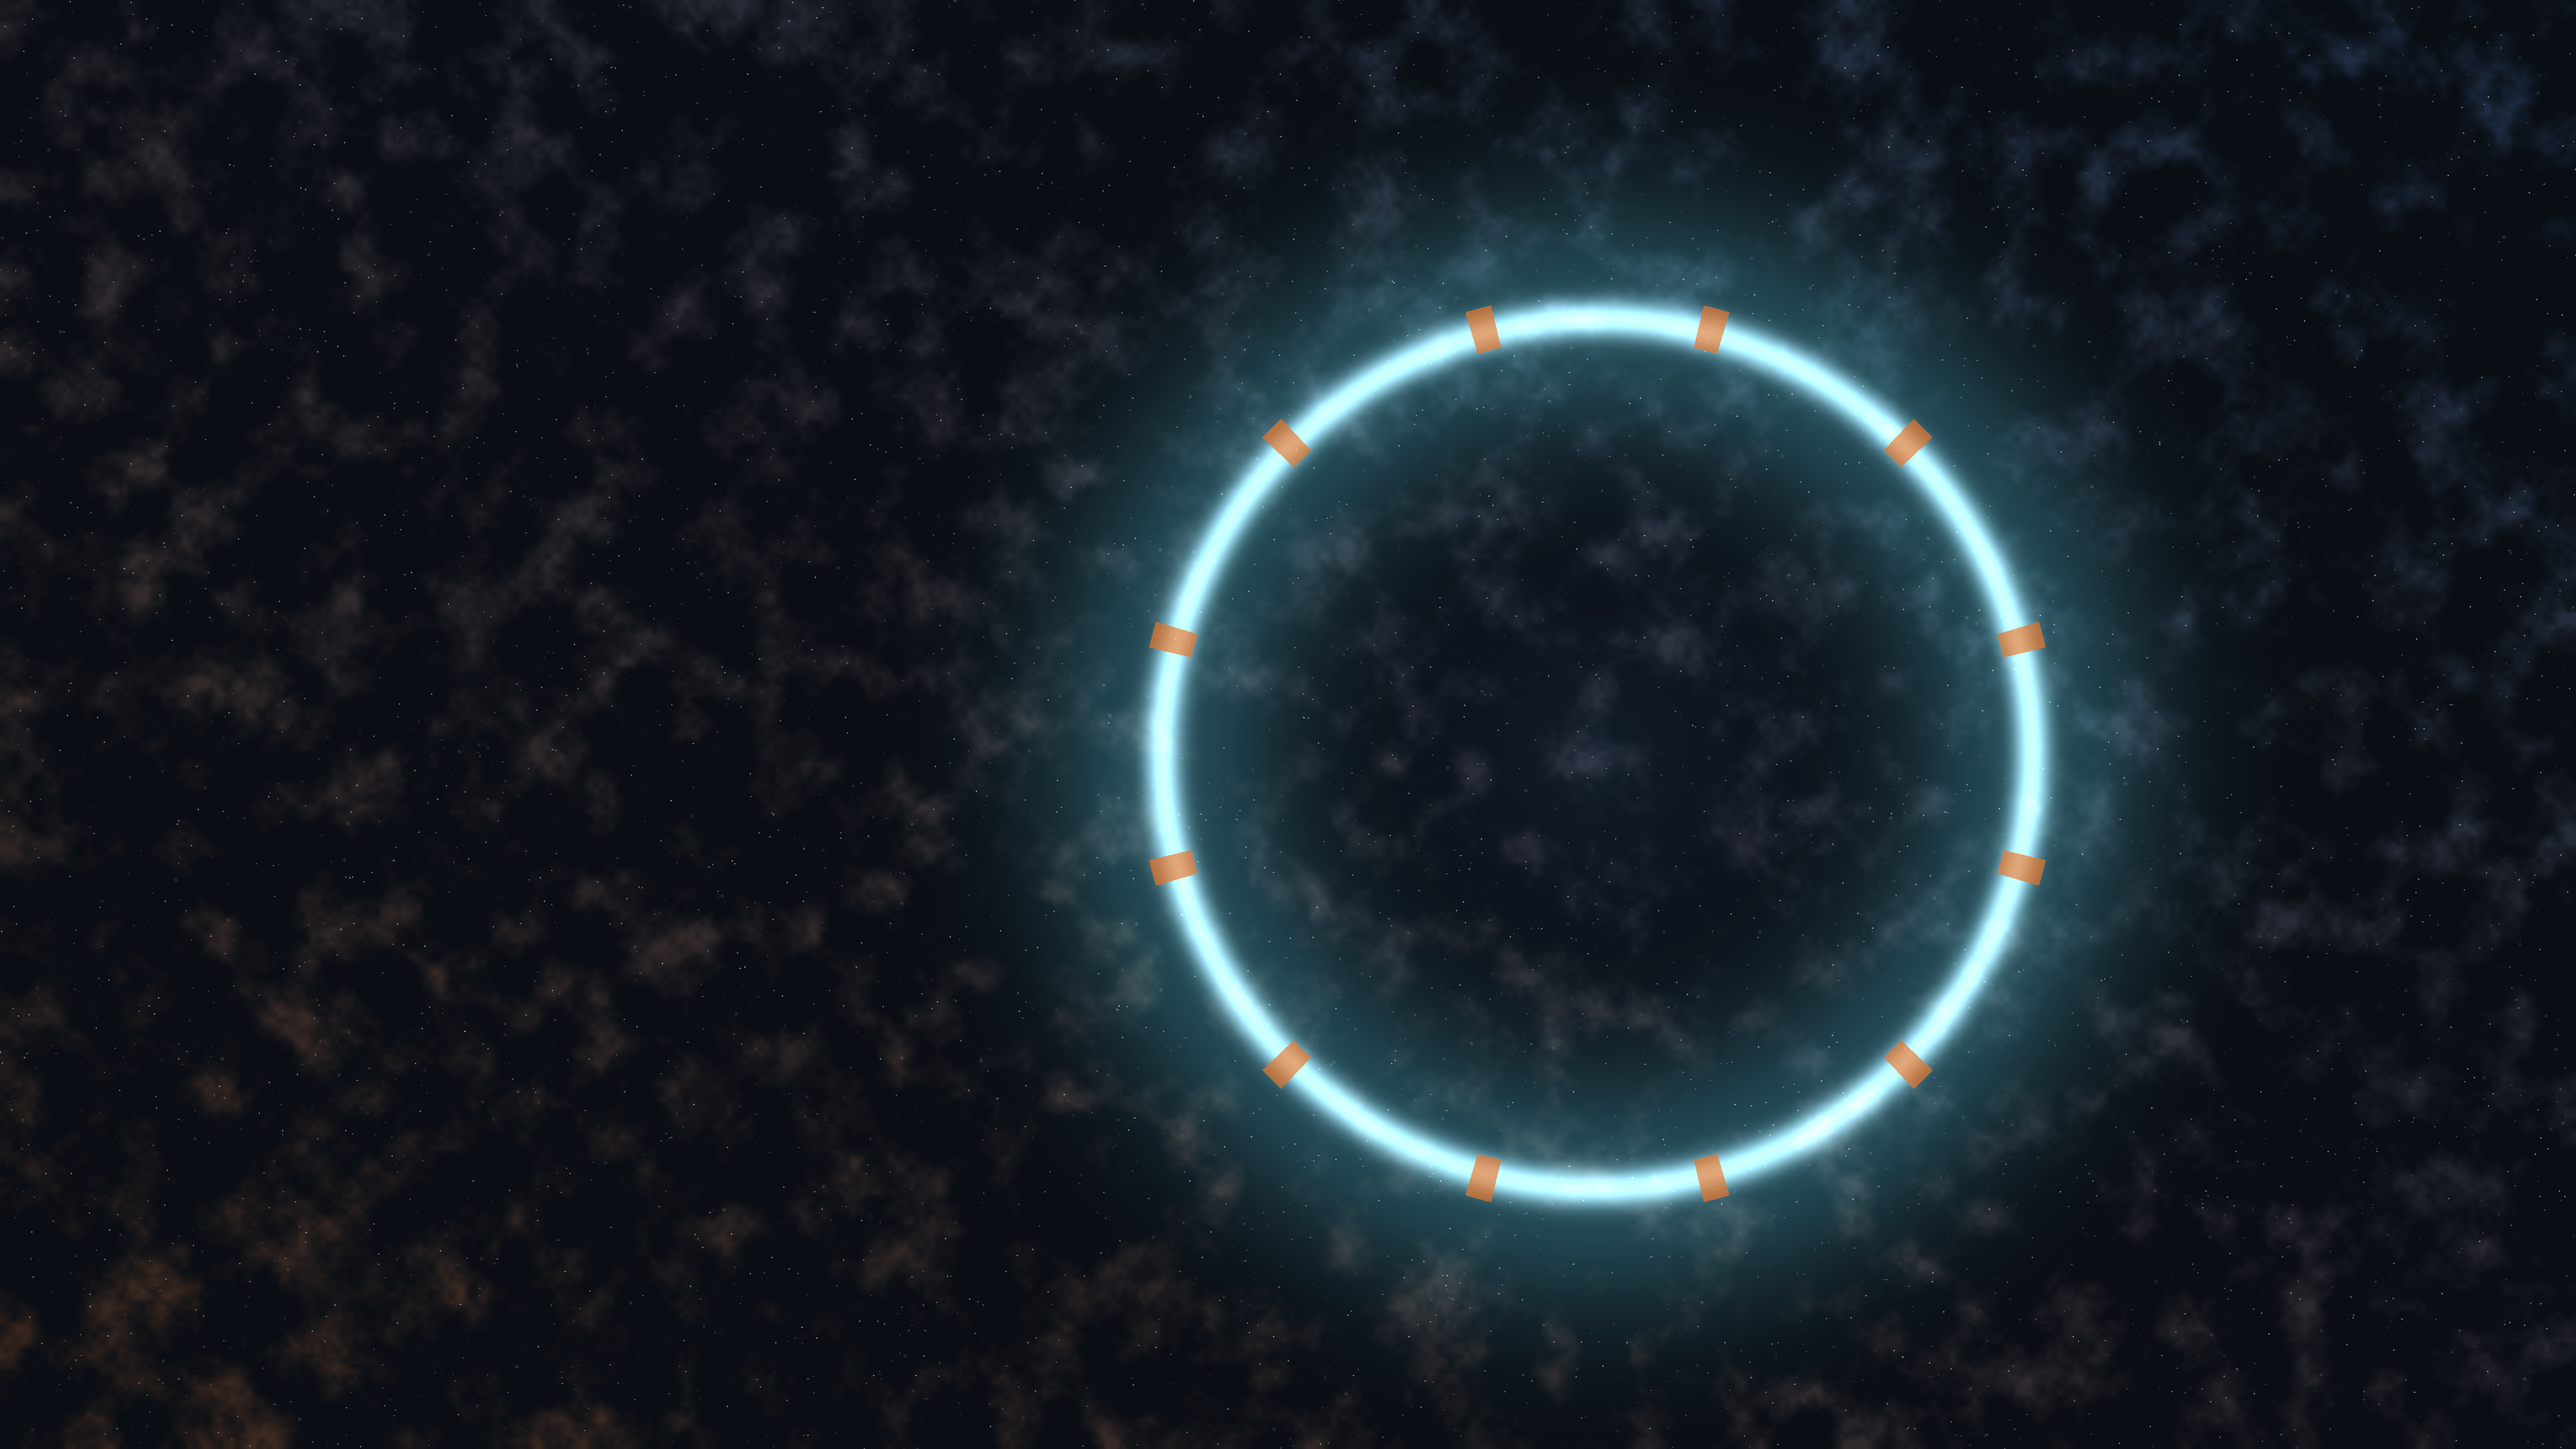
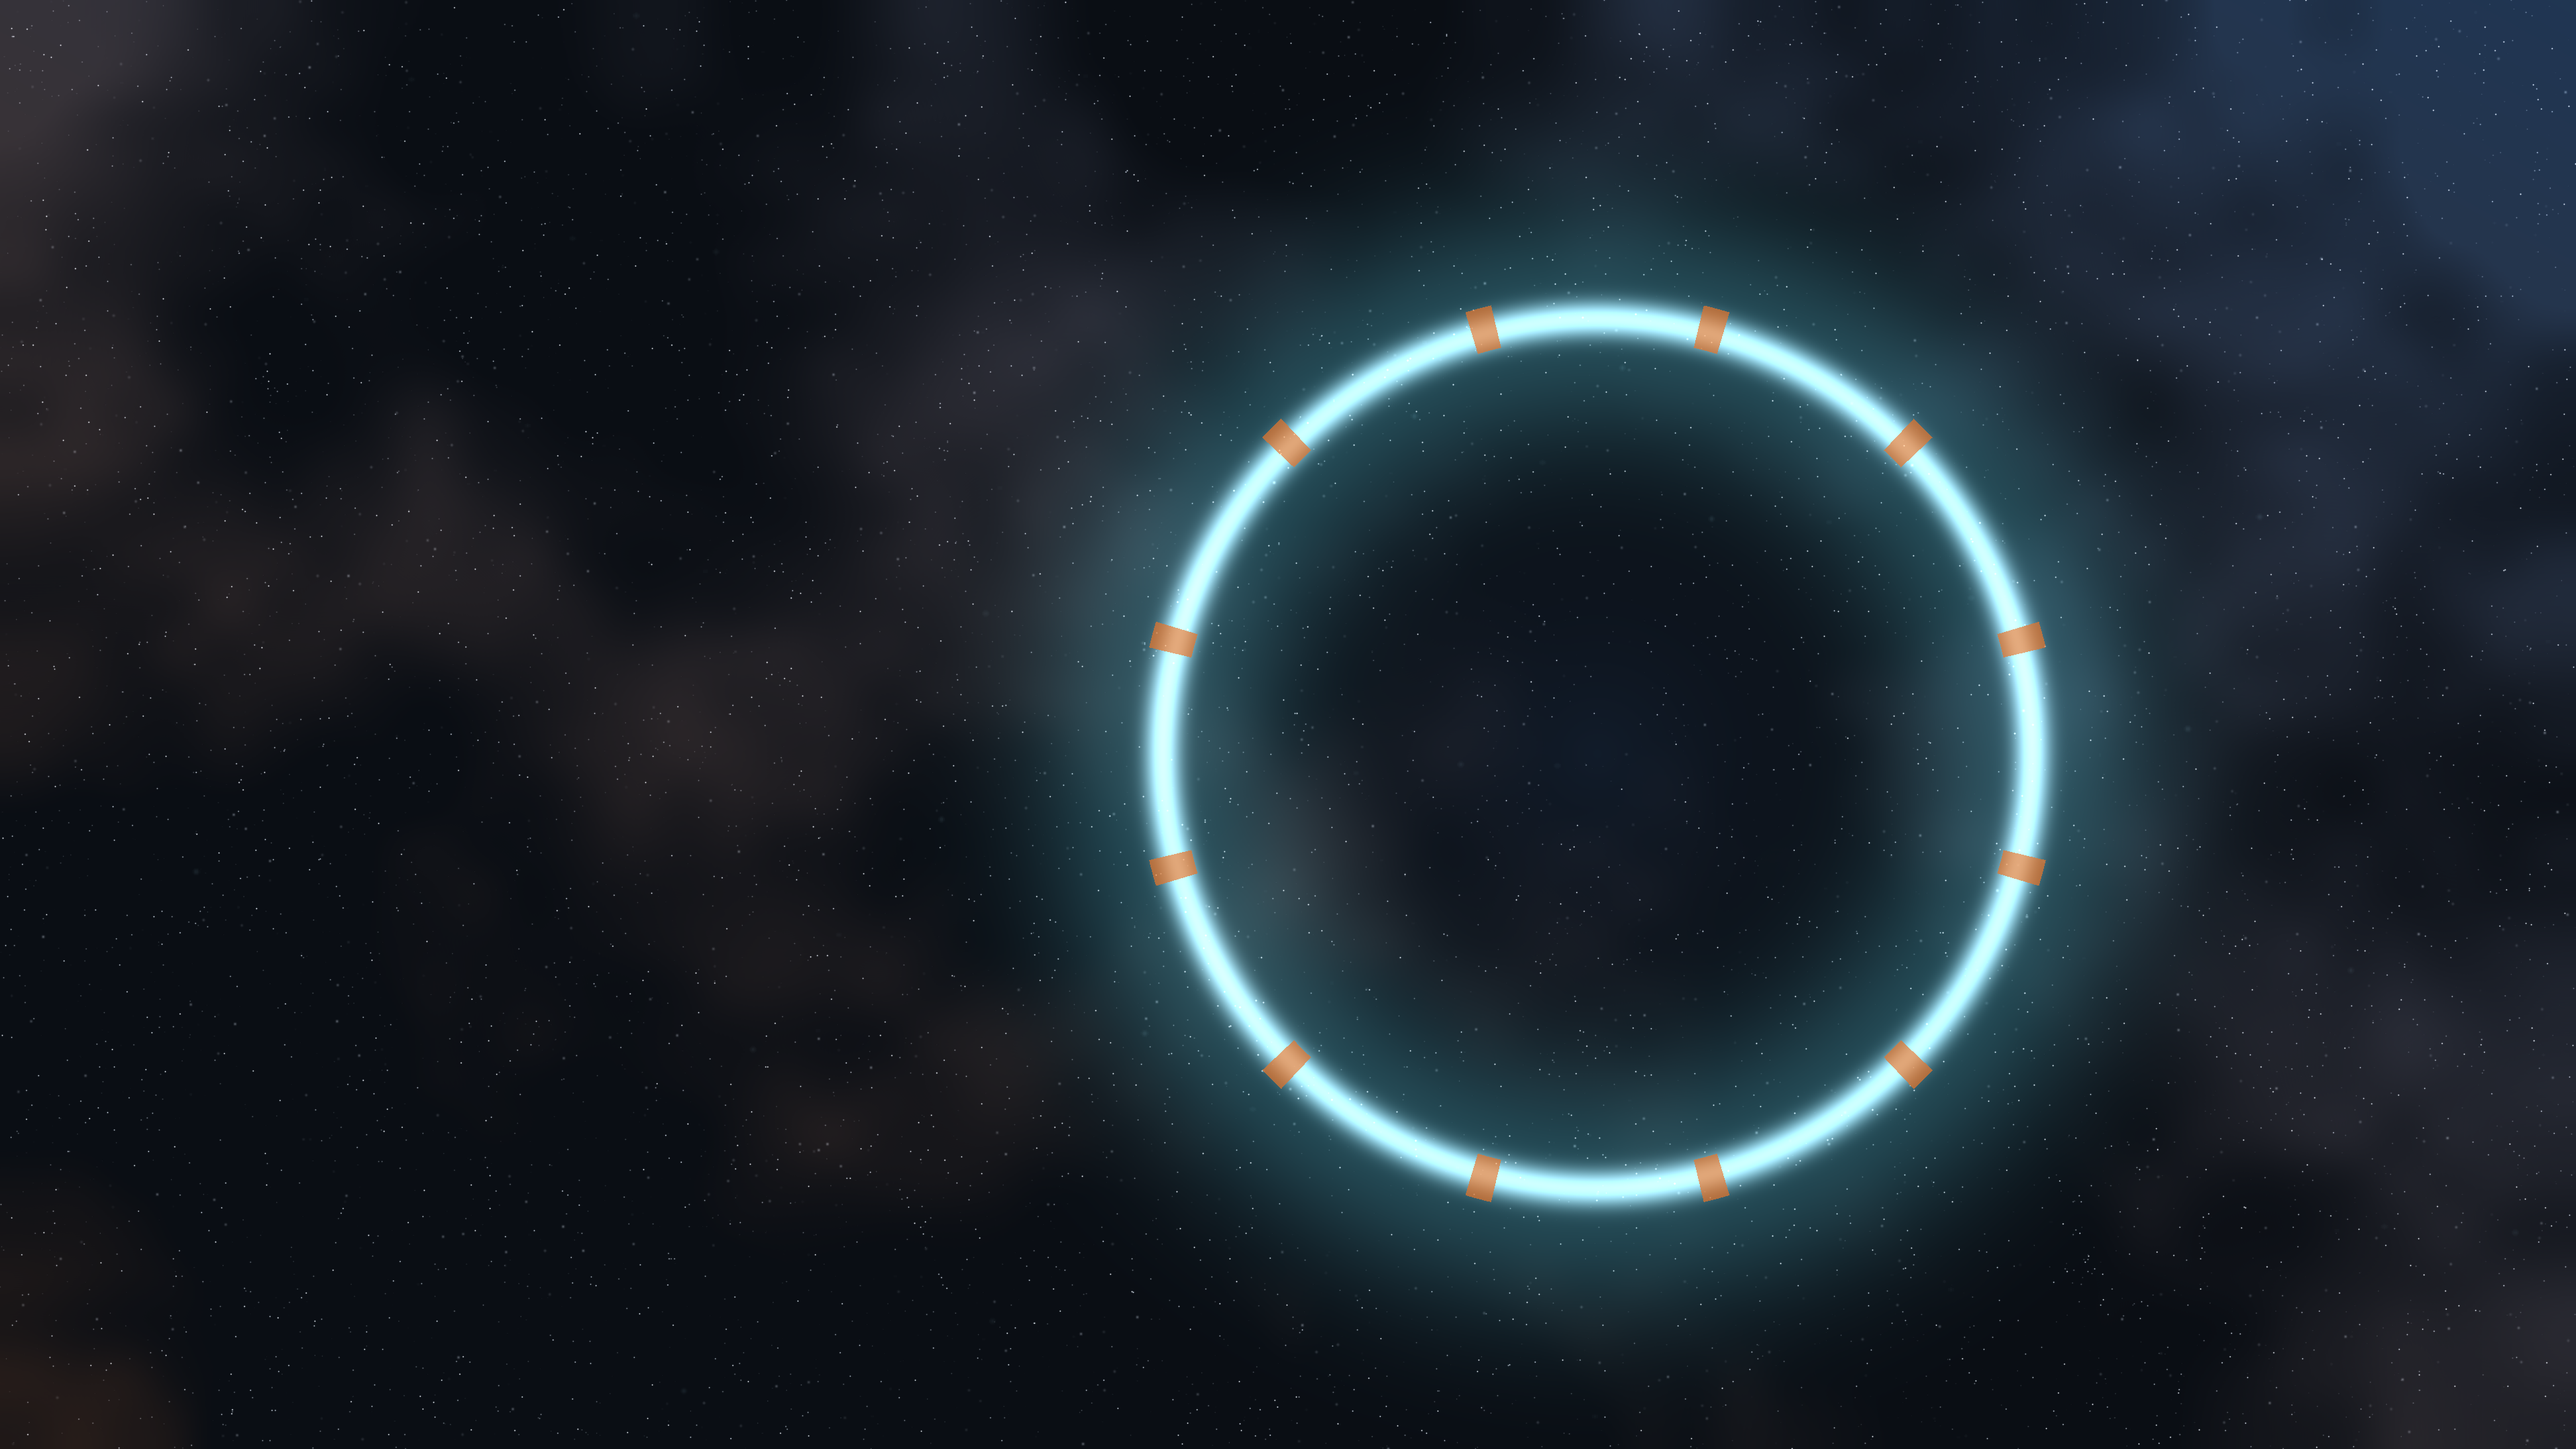
Smoother nebula, brighter stars

diff --git a/tools/make_backgrounds.py b/tools/make_backgrounds.py
@@ -23,13 +23,14 @@ TEAL = np.array([79, 182, 198]) / 255
 FG = np.array([207, 214, 223]) / 255
 
 
-def noise(w, h, rng, octaves=(64, 32, 16, 8), weights=(0.5, 0.25, 0.15, 0.10)):
-    """Smooth value noise: blurred random grids summed over a few scales."""
+def noise(w, h, rng, octaves=(640, 320, 160, 80), weights=(0.55, 0.25, 0.13, 0.07)):
+    """Smooth value noise: blurred random grids summed over a few large scales."""
     acc = np.zeros((h, w))
     for cell, wt in zip(octaves, weights):
-        gw, gh = w // cell + 2, h // cell + 2
+        gw, gh = w // cell + 3, h // cell + 3
         g = rng.random((gh, gw))
         im = Image.fromarray((g * 255).astype(np.uint8)).resize((w, h), Image.BICUBIC)
+        im = im.filter(ImageFilter.GaussianBlur(cell / 6))
         acc += wt * np.asarray(im, dtype=float) / 255
     return acc / sum(weights)
 
@@ -47,16 +48,16 @@ def stars(w, h, rng, n, bright, size_px):
 def sky(w, h, rng):
     base = np.ones((h, w, 3)) * BG
     neb = noise(w, h, rng)
-    neb = np.clip((neb - 0.42) * 2.2, 0, 1) ** 1.6
+    neb = np.clip((neb - 0.40) * 2.4, 0, 1) ** 1.4
     # orange at the lower left, blue toward the upper right
     gx = np.linspace(0, 1, w)[None, :]; gy = np.linspace(1, 0, h)[:, None]
     mix = np.clip(0.5 * gx + 0.5 * gy, 0, 1)
     tint = ORANGE * (1 - mix)[..., None] + BLUE * mix[..., None]
-    base += neb[..., None] * tint * 0.22
-    base += (stars(w, h, rng, w * h // 900, 0.9, 0.6))[..., None] * FG * 0.9   # far, tiny
-    base += (stars(w, h, rng, w * h // 9000, 1.0, 1.4))[..., None] * FG          # near, soft
-    big = stars(w, h, rng, w * h // 120000, 1.0, 3.0)
-    base += big[..., None] * (FG * 0.6 + TEAL * 0.4)
+    base += neb[..., None] * tint * 0.28
+    base += (stars(w, h, rng, w * h // 700, 1.0, 0.7))[..., None] * FG * 1.2   # far, tiny
+    base += (stars(w, h, rng, w * h // 6000, 1.0, 1.3))[..., None] * FG * 1.4  # near, soft
+    big = stars(w, h, rng, w * h // 90000, 1.0, 2.6)
+    base += big[..., None] * (FG * 0.6 + TEAL * 0.4) * 1.5
     return base
 
 
